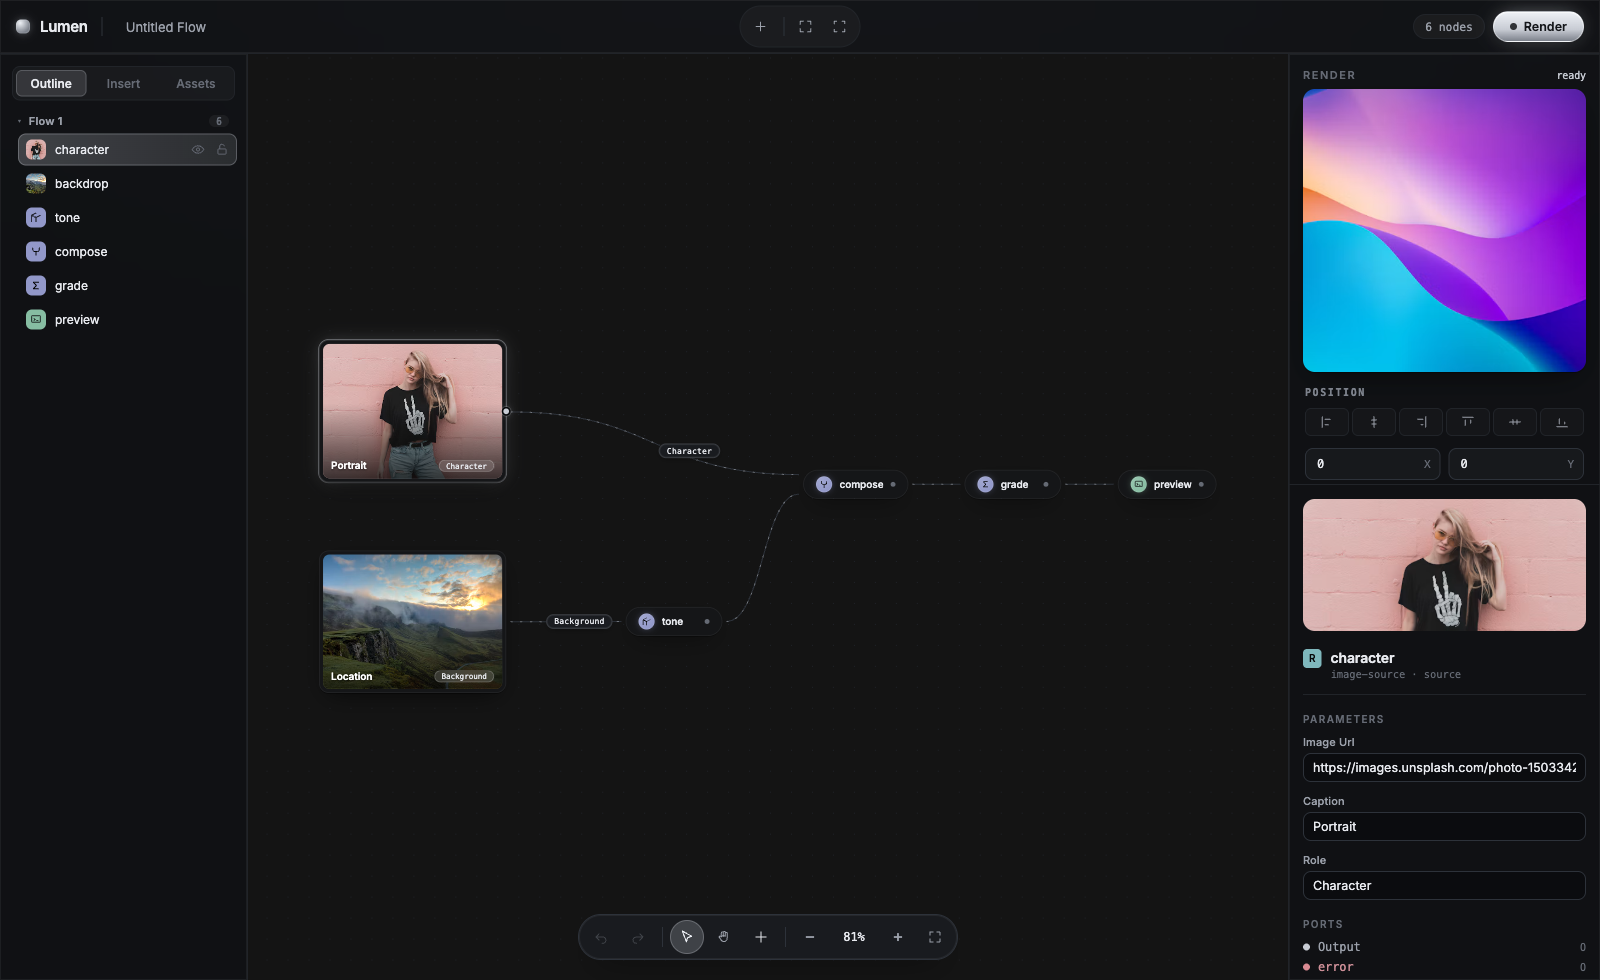
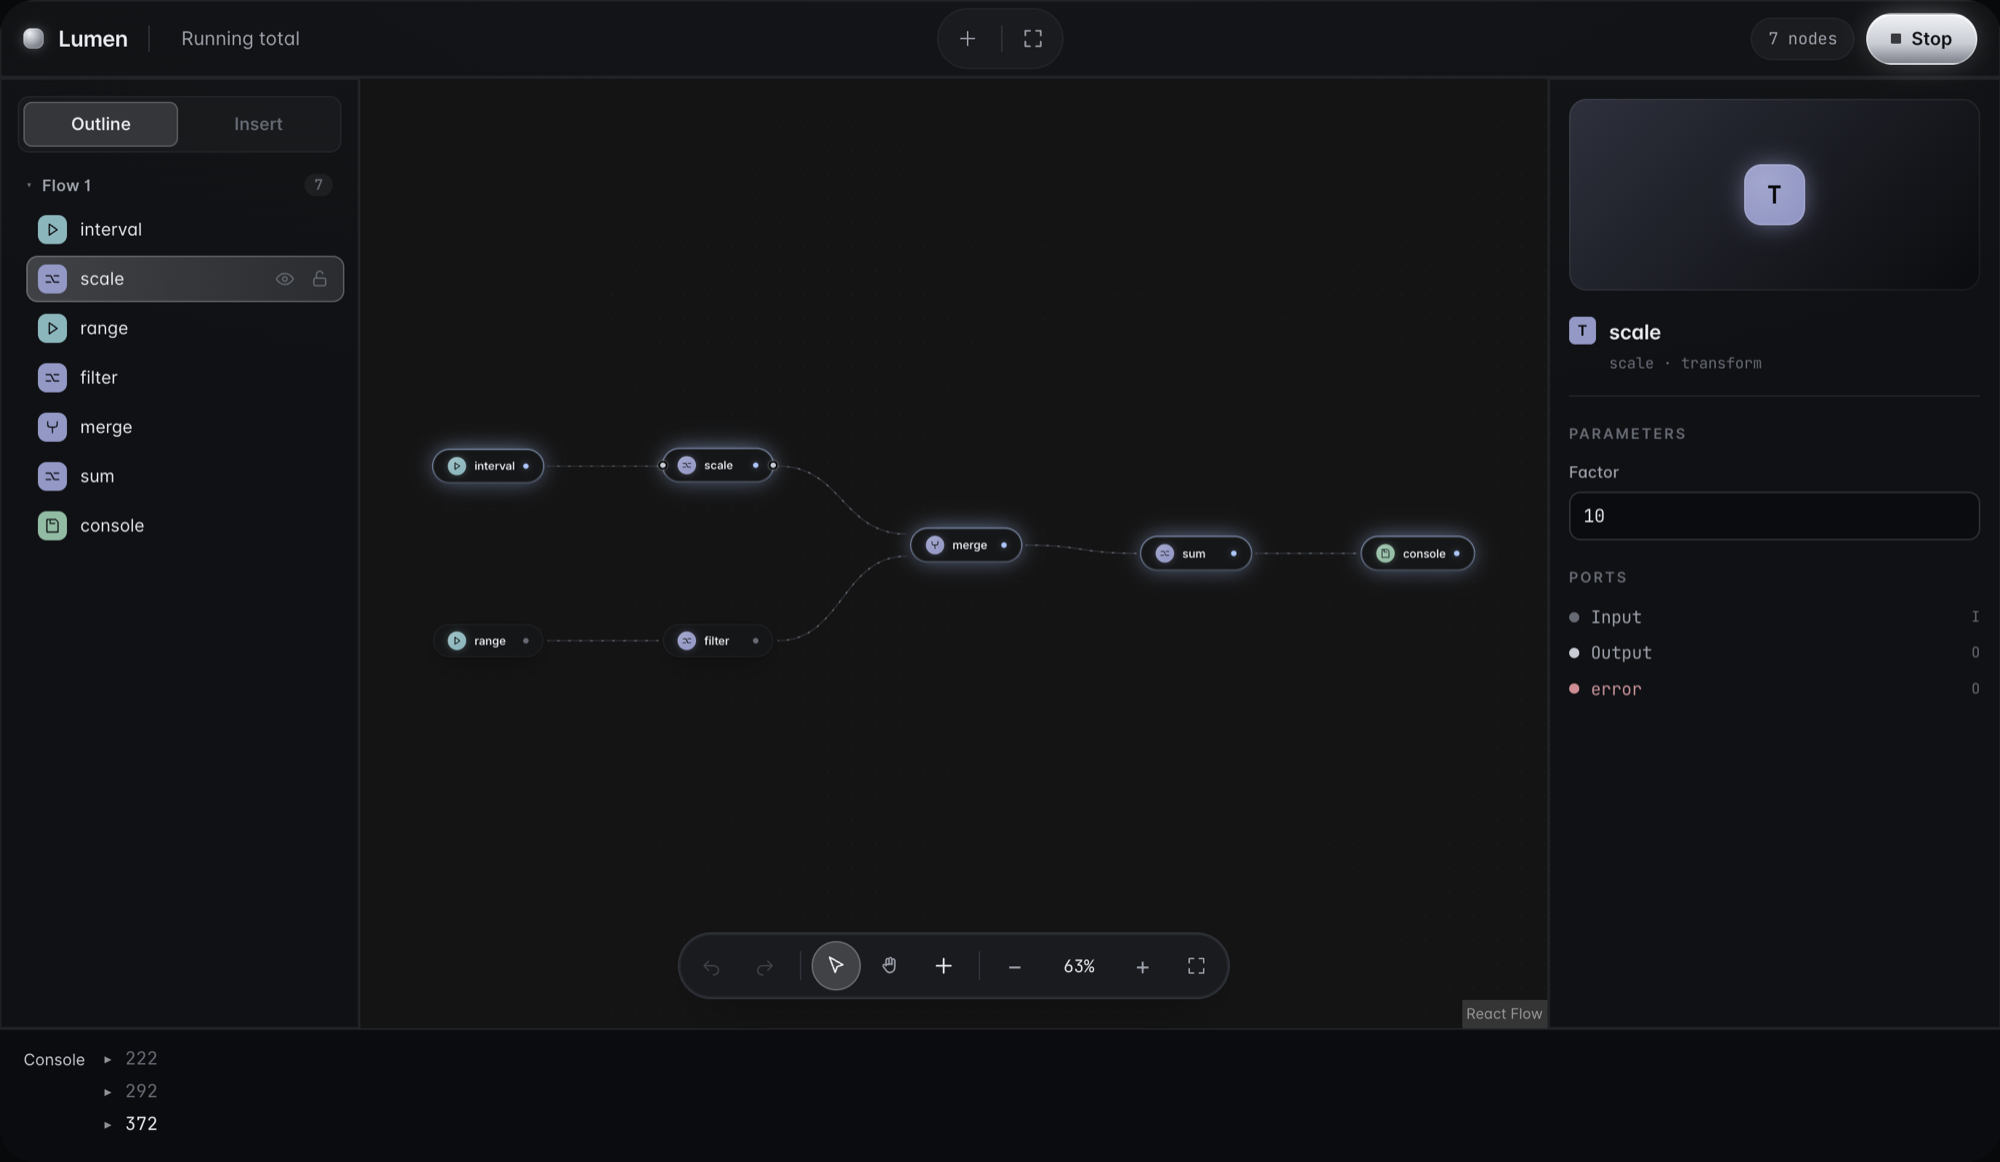
docs: show Prism as a case and Lumen as itself
- The Built on hlang table lists Prism, with a capture of the playground.
- The Lumen section shows the editor running generic stream nodes.
- Showcase covers keep the whole screenshot: the frame takes its aspect
  ratio instead of cropping it.
- The brand guide lists the new files.

diff --git a/README.md b/README.md
@@ -178,16 +178,20 @@ The language, the execution backends, and the editors are separate layers. Anyth
       <p>A composable TypeScript framework for AI applications. Components, ports, and pipelines on hlang's computational model.</p>
     </td>
     <td width="33%" valign="top">
-      <a href="#lumen"><img src="./media/showcase/lumen.png" alt="The Lumen editor" width="100%"></a>
-      <p><b>Lumen</b><br><sub>Editor stack · in development</sub></p>
-      <p>The node editor developed in this repository: a headless core, React bindings, and a design system for creative tools.</p>
+      <a href="./examples/editor-react-playground"><img src="./media/showcase/prism.png" alt="Prism, a node-based tool for image and video creators, built on Lumen" width="100%"></a>
+      <p><b>Prism</b><br><sub>Image and video creation · in development</sub></p>
+      <p>A node-based tool for creators, built on Lumen. Its image sources, intent nodes, and render preview are hlang nodes, and what it builds is an IGraph.</p>
     </td>
   </tr>
 </table>
 
 ### Lumen
 
-Lumen edits an `IGraph` and runs it with the interpreter. Its three layers depend in one direction only, and each can be replaced.
+Lumen edits an `IGraph` and runs it with the interpreter. It is generic: it knows nodes, ports, and graphs, and nothing about any one product. Its three layers depend in one direction only, and each can be replaced.
+
+<p align="center">
+  <img src="./media/lumen-editor.png" alt="The Lumen editor running a flow of generic stream nodes, with the outline, the canvas, and the inspector" width="100%">
+</p>
 
 | | `editor-core` | `editor-react` | `editor-ui` |
 | --- | --- | --- | --- |

diff --git a/media/brand/README.md b/media/brand/README.md
@@ -49,7 +49,8 @@ Interface and headlines use Inter, with the system sans-serif as fallback. Code,
 | [`social-card.svg`](./social-card.svg) / [`social-card.png`](./social-card.png) | Social preview, 1280 × 640 (GitHub repository social preview) |
 | [`avatar.svg`](./avatar.svg) / [`avatar.png`](./avatar.png) | Organization avatar, 512 × 512 |
 | [`logo-construction.svg`](./logo-construction.svg) | Construction and rationale sheet, 1400 × 850 |
-| [`../lumen-editor.png`](../lumen-editor.png) | Product screenshot of the Lumen editor |
+| [`../lumen-editor.png`](../lumen-editor.png) | The Lumen editor running a flow of generic stream nodes |
+| [`../prism.png`](../prism.png) | Case screenshot: Prism, a tool for image and video creators built on Lumen |
 | [`../ui.png`](../ui.png) | Case screenshot: a node development tool built on hlang for the CHINASHOP 2020 retail solution |
 
 ## Writing
